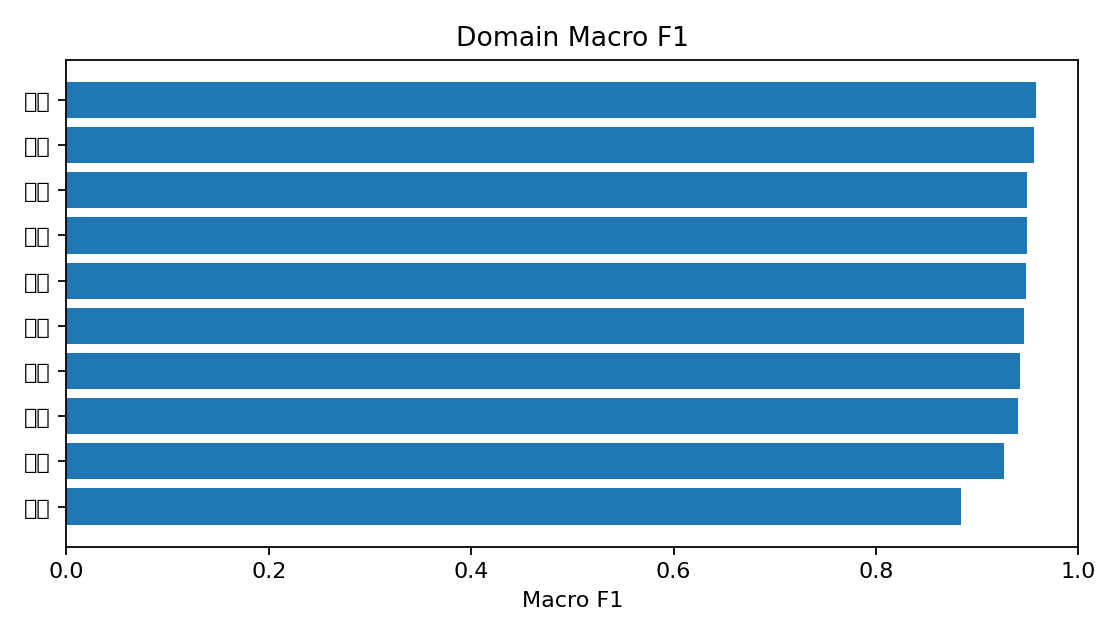
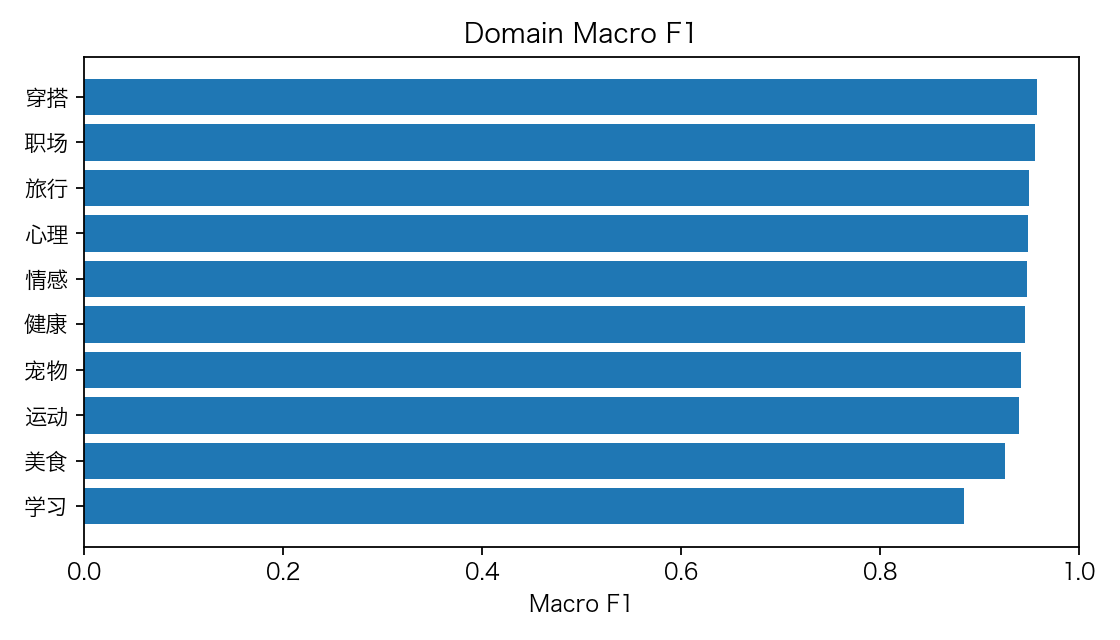
fix: Fix Chinese domain labels rendering as empty boxes in figures

diff --git a/src/rednote_aigt/evaluation/plots.py b/src/rednote_aigt/evaluation/plots.py
@@ -1,7 +1,14 @@
-"""Matplotlib plots for model evaluation."""
+"""Matplotlib plots for model evaluation.
+
+Domain names are Chinese, so the module picks a CJK-capable font at import
+time; matplotlib's default (DejaVu Sans) has no CJK coverage and renders every
+domain label as an identical empty box, which silently makes the domain figure
+useless.
+"""
 
 from __future__ import annotations
 
+import logging
 import os
 from pathlib import Path
 
@@ -13,9 +20,47 @@ matplotlib.use("Agg")
 import matplotlib.pyplot as plt
 import numpy as np
 import pandas as pd
+from matplotlib import font_manager
 from sklearn.metrics import ConfusionMatrixDisplay, PrecisionRecallDisplay, RocCurveDisplay
 
 from rednote_aigt.utils.io import ensure_dir
+
+LOGGER = logging.getLogger(__name__)
+
+# Ordered by preference; the first one installed wins. Covers macOS, common
+# Linux CJK packages, and Windows.
+CJK_FONT_CANDIDATES = [
+    "PingFang SC",
+    "Hiragino Sans GB",
+    "Heiti SC",
+    "STHeiti",
+    "Songti SC",
+    "Noto Sans CJK SC",
+    "Noto Sans SC",
+    "Source Han Sans SC",
+    "Microsoft YaHei",
+    "SimHei",
+    "WenQuanYi Zen Hei",
+    "Arial Unicode MS",
+]
+
+
+def use_cjk_font() -> str | None:
+    """Make Chinese labels renderable; return the font used, or None if absent."""
+    installed = {font.name for font in font_manager.fontManager.ttflist}
+    for candidate in CJK_FONT_CANDIDATES:
+        if candidate in installed:
+            plt.rcParams["font.sans-serif"] = [candidate, *plt.rcParams["font.sans-serif"]]
+            plt.rcParams["axes.unicode_minus"] = False
+            return candidate
+    LOGGER.warning(
+        "No CJK font found (tried %s); Chinese labels in figures will render as boxes.",
+        ", ".join(CJK_FONT_CANDIDATES),
+    )
+    return None
+
+
+SELECTED_CJK_FONT = use_cjk_font()
 
 
 def plot_confusion_matrix(cm: list[list[int]], path: Path) -> None:
